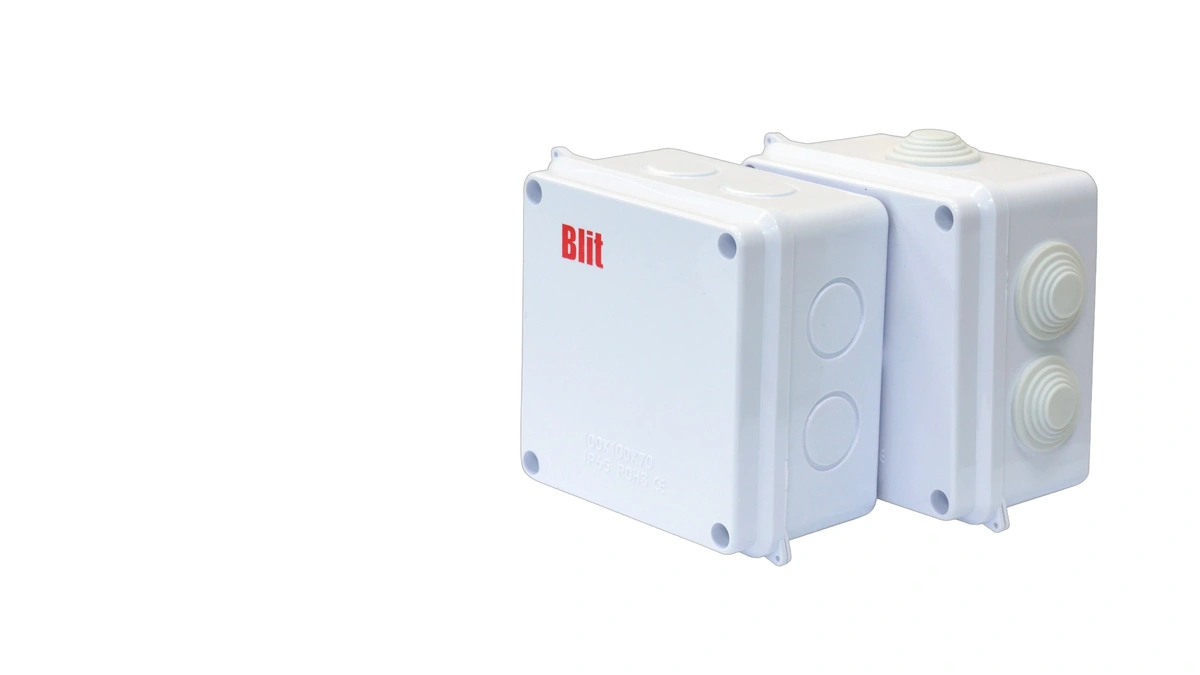
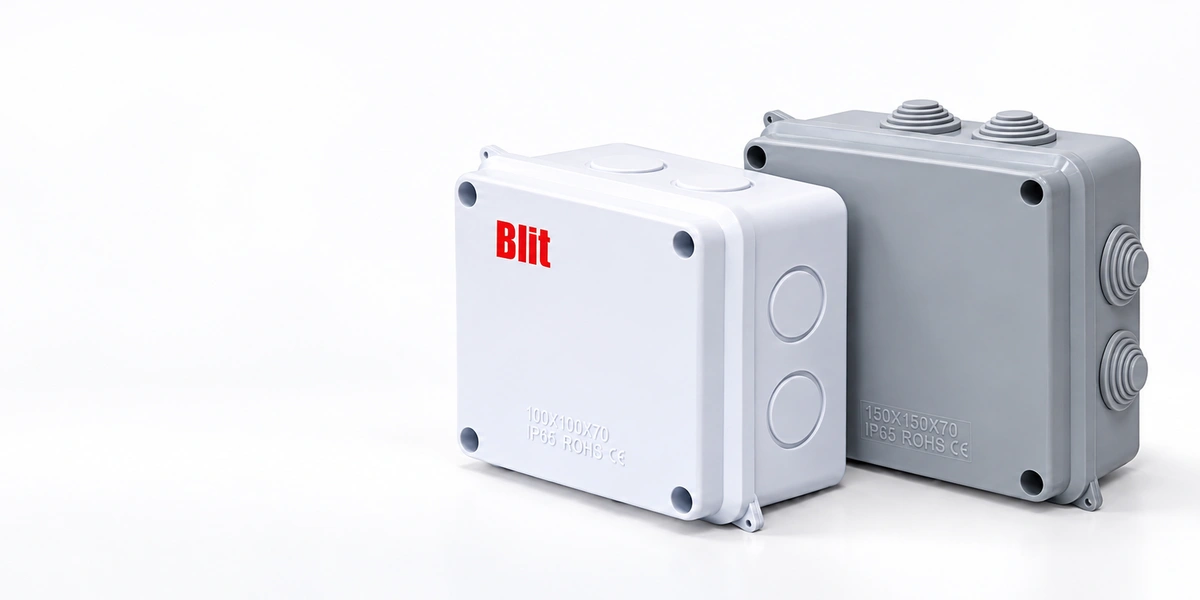
feat(installation-boxes): update enclosure boxes with and without knob to dual-colour renders

Changed region(s): [[0.37, 0.15, 0.9867, 0.9], [0.4317, 0.66, 0.4933, 0.75], [0.4933, 0.75, 0.5242, 0.78]]

diff --git a/products-data.js b/products-data.js
@@ -182,8 +182,12 @@ export const IMAGE_BG_MAP = {
   "/assets/products/insect_killer/prime_series.webp?v=4": "#ffffff",
   "/assets/products/installation_boxes/enclosure_box_with_knob.webp": "#ffffff",
   "/assets/products/installation_boxes/enclosure_box_with_knob.webp?v=4": "#ffffff",
+  "/assets/products/installation_boxes/enclosure_box_with_knob.webp?v=5": "#ffffff",
+  "/assets/products/installation_boxes/enclosure_box_with_knob.webp?v=6": "#ffffff",
   "/assets/products/installation_boxes/enclosure_box_without_knob.webp": "#ffffff",
   "/assets/products/installation_boxes/enclosure_box_without_knob.webp?v=4": "#ffffff",
+  "/assets/products/installation_boxes/enclosure_box_without_knob.webp?v=5": "#ffffff",
+  "/assets/products/installation_boxes/enclosure_box_without_knob.webp?v=6": "#ffffff",
   "/assets/products/cw_range/BTCW3011-BLK.webp": "#ffffff",
   "/assets/products/cw_range/BTCW3012-BLK.webp": "#ffffff",
   "/assets/products/cw_range/BTCW3032-BLK.webp": "#ffffff",
@@ -1871,7 +1875,7 @@ export const PRODUCTS_DATA = [
         name: "BLIT Waterproof Enclosure Box With Knob",
         shortDesc: "Durable waterproof enclosure boxes featuring convenient cable-entry provisions for reliable electrical protection.",
         availableColours: "White | Grey",
-        img: "/assets/products/installation_boxes/enclosure_box_with_knob.webp?v=4",
+        img: "/assets/products/installation_boxes/enclosure_box_with_knob.webp?v=6",
         desc: "Durable waterproof enclosure box designed for reliable protection of electrical connections in residential, commercial, and industrial installations.",
         overview: "The BLIT Waterproof Enclosure Box With Knob is designed to provide dependable protection for electrical connections and wiring installations. Manufactured using durable ABS material, the range combines robust construction with practical functionality for environments exposed to dust and moisture.\n\nFeaturing convenient cable-entry provisions and a protective enclosure design, the range supports secure and organised electrical installations. Available in multiple sizes and white and grey finishes, it offers flexible solutions for a wide range of residential, commercial, and industrial applications.",
         keyFeatures: [
@@ -1888,7 +1892,7 @@ export const PRODUCTS_DATA = [
         name: "BLIT Waterproof Enclosure Box Without Knob",
         shortDesc: "Robust waterproof enclosure boxes with a clean exterior design for dependable electrical installations.",
         availableColours: "White | Grey",
-        img: "/assets/products/installation_boxes/enclosure_box_without_knob.webp?v=4",
+        img: "/assets/products/installation_boxes/enclosure_box_without_knob.webp?v=6",
         desc: "Robust waterproof enclosure box combining durable construction and a clean, practical design for dependable electrical protection.",
         overview: "The BLIT Waterproof Enclosure Box Without Knob is engineered to provide reliable protection for electrical connections and wiring systems. Featuring robust ABS construction and a clean exterior design, the range offers dependable functionality for residential, commercial, and industrial installations.\n\nDesigned for practical installation and lasting durability, the enclosure provides a versatile solution for different electrical applications. Its protective construction and multiple size options accommodate various wiring arrangements while maintaining a clean and professional appearance.",
         keyFeatures: [

diff --git a/installation-boxes.html b/installation-boxes.html
@@ -11,7 +11,7 @@
   <link rel="preconnect" href="https://fonts.gstatic.com" crossorigin>
   <link href="https://fonts.googleapis.com/css2?family=Outfit:wght@300;400;500;600;700;800&family=Poppins:wght@300;400;500;600;700&display=swap" rel="stylesheet">
   
-  <link rel="preload" href="./assets/products/installation_boxes/installation_boxes_hero.webp?v=3000" as="image" type="image/webp">
+  <link rel="preload" href="./assets/products/installation_boxes/installation_boxes_hero.webp?v=4000" as="image" type="image/webp">
   <link rel="stylesheet" href="./style.css">
   
   <style>
@@ -36,20 +36,19 @@
     .switches-hero {
       position: relative;
       background-color: #0B0B0B;
-      height: 520px;
-      min-height: 520px;
+      min-height: 540px;
       overflow: hidden;
       display: flex;
       align-items: center;
       border-bottom: 1px solid rgba(255, 255, 255, 0.08);
-      padding: 0;
+      padding: 60px 0;
     }
 
     .switches-hero .hero-bg-media {
       position: absolute;
       top: 0;
       right: 0;
-      width: 55%;
+      width: 100%;
       height: 100%;
       z-index: 1;
       overflow: hidden;
@@ -59,7 +58,7 @@
       width: 100%;
       height: 100%;
       object-fit: cover;
-      object-position: center;
+      object-position: right center;
     }
 
     .switches-hero .hero-bg-media::after {
@@ -69,13 +68,19 @@
       left: 0;
       width: 100%;
       height: 100%;
-      background: linear-gradient(90deg, #0B0B0B 0%, rgba(11, 11, 11, 0.4) 30%, transparent 100%);
+      background: linear-gradient(90deg, #0B0B0B 0%, rgba(11, 11, 11, 0.85) 30%, rgba(11, 11, 11, 0.25) 50%, transparent 70%);
       pointer-events: none;
+      z-index: 2;
     }
 
     .switches-hero .container {
       position: relative;
       z-index: 10;
+    }
+
+    .switches-hero .hero-btn {
+      opacity: 1 !important;
+      transform: none !important;
     }
 
     @media (max-width: 991px) {
@@ -264,7 +269,7 @@
   <!-- Hero Section -->
   <section class="switches-hero">
     <div class="hero-bg-media">
-      <img src="./assets/products/installation_boxes/installation_boxes_hero.webp?v=3000" alt="Installation Boxes Collection">
+      <img src="./assets/products/installation_boxes/installation_boxes_hero.webp?v=4000" alt="Installation Boxes Collection">
     </div>
     <div class="container" style="max-width: 1200px; margin: 0 auto; padding: 0 24px; width: 100%;">
       <div style="max-width: 580px;">

diff --git a/index.html b/index.html
@@ -409,7 +409,7 @@
         <!-- Card 6: Installation Boxes -->
         <div class="category-card reveal reveal-delay-2" data-category="installation_boxes">
           <div class="card-img-box full-bleed">
-            <img src="./assets/products/installation_boxes/installation_boxes_card.webp?v=5000" alt="Installation Boxes Collection" loading="lazy">
+            <img src="./assets/products/installation_boxes/installation_boxes_card.webp?v=6000" alt="Installation Boxes Collection" loading="lazy">
             <span class="category-badge">Installation Boxes</span>
           </div>
           <div class="card-content">
